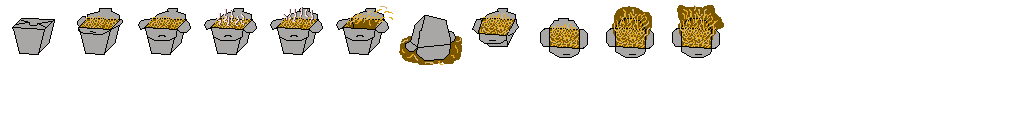
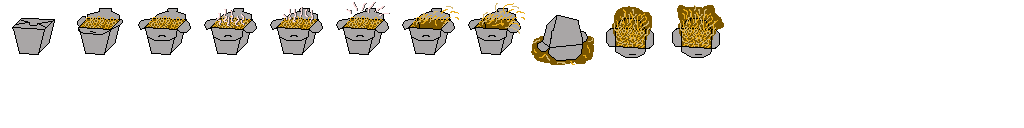
added last tweens replaced atlas to include more frames

Changed region(s): [[0.3438, 0.0312, 0.5938, 0.5312]]

diff --git a/core/src/com/allsopg/game/actor/NoodlesPickup.java b/core/src/com/allsopg/game/actor/NoodlesPickup.java
@@ -49,7 +49,7 @@ public class NoodlesPickup extends BonusSprite
     {
         chooseFrames(0,2,12,Animation.PlayMode.NORMAL);
         Tween.to(tweenData, TweenDataAccessor.TYPE_POS, 6f).targetRelative(0, 10).start(tweenManager)
-             .to(tweenData, TweenDataAccessor.TYPE_POS, 6f).delay(10f).targetRelative(0, -10).setCallback(new TweenCallback()
+             .to(tweenData, TweenDataAccessor.TYPE_POS, 6f).delay(6f).targetRelative(0, -10).setCallback(new TweenCallback()
             {
                 @Override
                 public void onEvent(int type, BaseTween<?> source)
@@ -61,7 +61,7 @@ public class NoodlesPickup extends BonusSprite
 
     private void idle()
     {
-        chooseFrames(2, 4, 4, Animation.PlayMode.LOOP);
+        chooseFrames(3, 5, 4, Animation.PlayMode.LOOP);
         Tween.to(tweenData, TweenDataAccessor.TYPE_ROTATION,10f).target(10f).start(tweenManager)
              .to(tweenData, TweenDataAccessor.TYPE_ROTATION,20f).delay(10f).target(-10f).start(tweenManager)
              .to(tweenData, TweenDataAccessor.TYPE_ROTATION,10f).delay(30f).target(0f).start(tweenManager);
@@ -69,14 +69,11 @@ public class NoodlesPickup extends BonusSprite
 
     /**
      * should be private to be called only by collision
-     *
      */
-    public void discard()
+    public void consume()
     {
-        //add additional frame
-        chooseFrames(5,5,4, Animation.PlayMode.LOOP);
+        chooseFrames(6,7,5, Animation.PlayMode.LOOP);
         Tween.to(tweenData, TweenDataAccessor.TYPE_POS,2f).targetRelative(-7,10f).start(tweenManager)
-                //.to(tweenData, TweenDataAccessor.TYPE_ROTATION, 4f).target(-18f).start(tweenManager)
              .to(tweenData, TweenDataAccessor.TYPE_POS,2f).delay(2f).targetRelative(-10,12f).start(tweenManager)
                 .to(tweenData, TweenDataAccessor.TYPE_ROTATION, 2f).delay(2f).targetRelative(22.5f).start(tweenManager)
              .to(tweenData, TweenDataAccessor.TYPE_POS,2f).delay(4f).targetRelative(-9,10f).start(tweenManager)
@@ -94,20 +91,31 @@ public class NoodlesPickup extends BonusSprite
              .to(tweenData, TweenDataAccessor.TYPE_POS,2f).delay(18f).targetRelative(-6,-13f).start(tweenManager)
                 .to(tweenData, TweenDataAccessor.TYPE_ROTATION, 2f).delay(18f).targetRelative(22.5f).start(tweenManager)
              .to(tweenData, TweenDataAccessor.TYPE_POS,2f).delay(20f).targetRelative(-5,-16f).start(tweenManager)
-                .to(tweenData, TweenDataAccessor.TYPE_ROTATION, 2f).delay(18f).targetRelative(200f).start(tweenManager).setCallback(new TweenCallback()
-        {
-            @Override
-            public void onEvent(int type, BaseTween<?> source)
-            {
-                chooseFrames(6,6,1,Animation.PlayMode.NORMAL);
-            }
-        }).start(tweenManager);
+                .to(tweenData, TweenDataAccessor.TYPE_ROTATION, 2f).delay(20f).targetRelative(180f).setCallback(new TweenCallback()
+                {
+                    @Override
+                    public void onEvent(int type, BaseTween<?> source)
+                    {
+                        chooseFrames(8,8,1,Animation.PlayMode.NORMAL);
+
+                    }
+                }).start(tweenManager);
     }
 
+    public void discard()
+    {
+        chooseFrames(9,10,10,Animation.PlayMode.LOOP);
+        Tween.to(tweenData,TweenDataAccessor.TYPE_POS,7f).targetRelative(0f,20f).start(tweenManager)
+             .to(tweenData,TweenDataAccessor.TYPE_SCALE, 7f).target(2f).start(tweenManager)
+             //use scene height so it always has to fall off screen
+             .to(tweenData,TweenDataAccessor.TYPE_POS,60f).delay(7f).targetRelative(0f,-Constants.SCENE_HEIGHT).start(tweenManager);
+
+    }
     /**
      * newX and newY methods can be used with a moving spawner
      * use in place of .targetReleative
      * eg .target(newX,newY)
+     * only needs to be used with spawn()
     **/
     private Float newX(float offset)
     {
